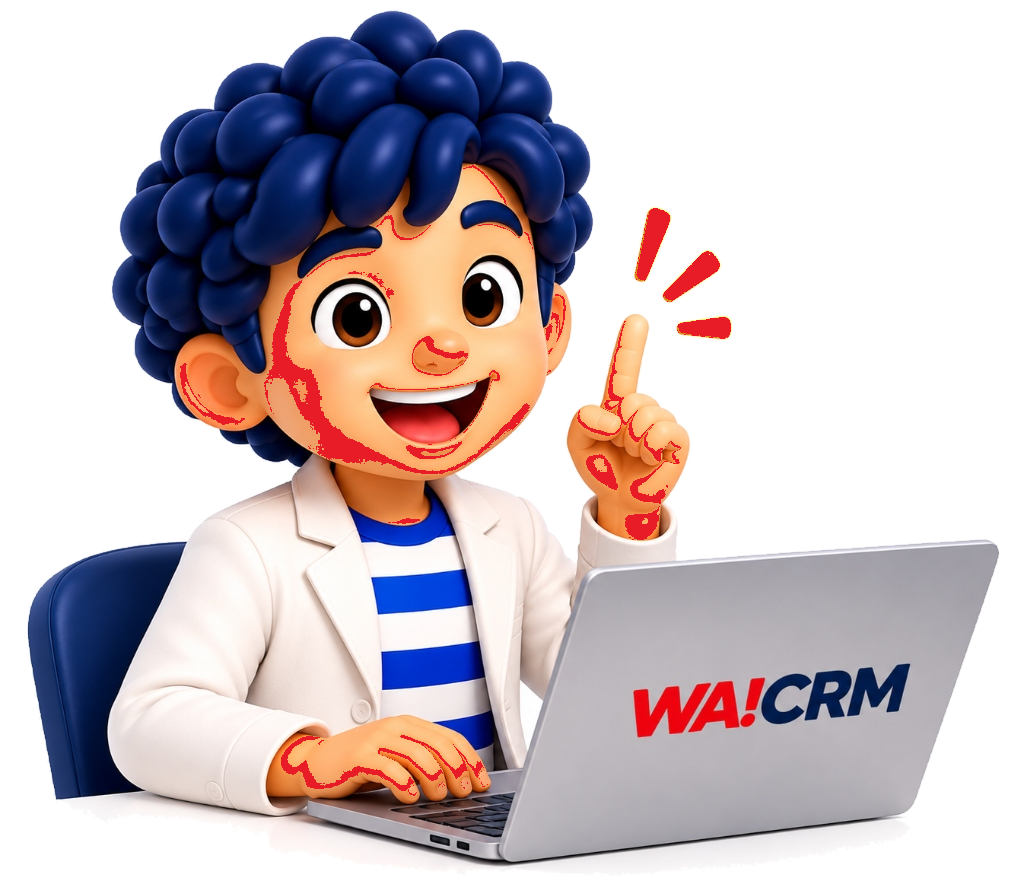
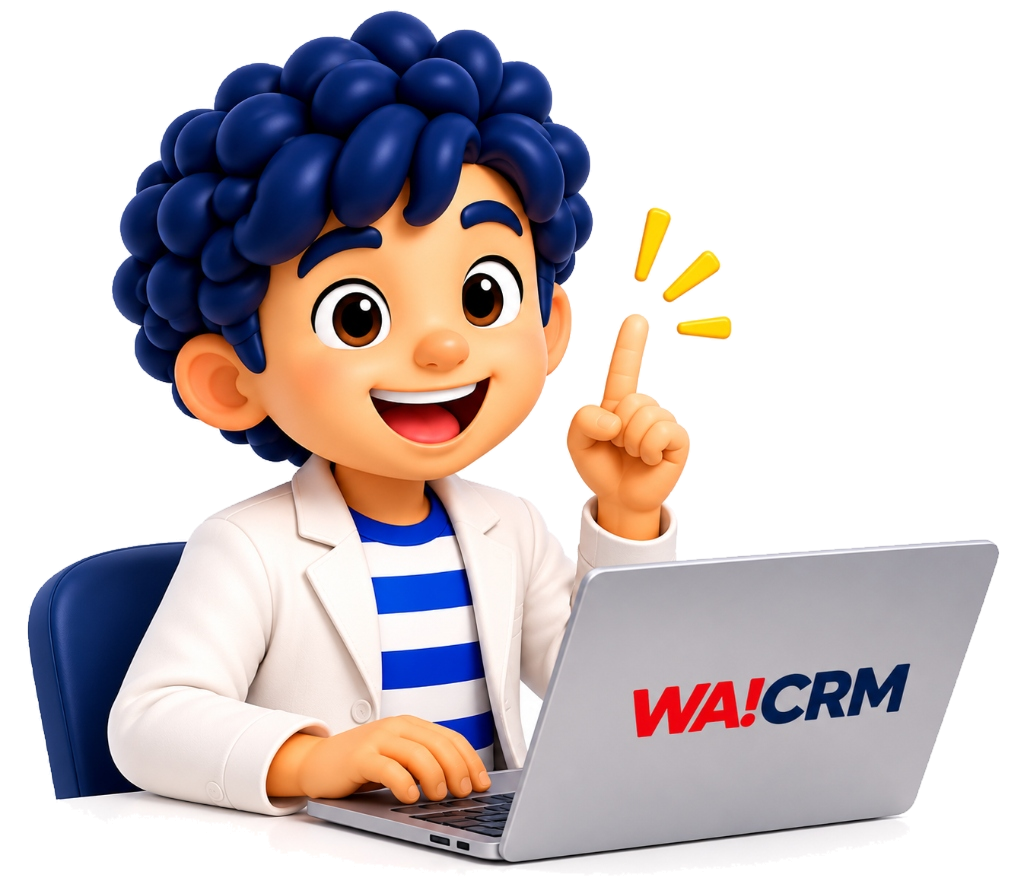
fix(mobile): restore 100% natural skin tones on Pingo face and hands and lower bottom waves

diff --git a/mobile/lib/core/widgets/wave_background_painter.dart b/mobile/lib/core/widgets/wave_background_painter.dart
@@ -123,8 +123,8 @@ class WaveBackgroundPainter extends CustomPainter {
 
       // Deep corporate navy bottom-right wave
       final navyWave = Path()
-        ..moveTo(w * 0.45, h)
-        ..cubicTo(w * 0.65, h * 0.94, w * 0.82, h * 0.92, w, h * 0.85)
+        ..moveTo(w * 0.50, h)
+        ..cubicTo(w * 0.68, h * 0.96, w * 0.84, h * 0.94, w, h * 0.88)
         ..lineTo(w, h)
         ..close();
       final navyPaint = Paint()
@@ -135,14 +135,14 @@ class WaveBackgroundPainter extends CustomPainter {
             Color(0xFF1E3A5F),
             Color(0xFF162A45),
           ],
-        ).createShader(Rect.fromLTWH(w * 0.45, h * 0.85, w * 0.55, h * 0.15));
+        ).createShader(Rect.fromLTWH(w * 0.50, h * 0.88, w * 0.50, h * 0.12));
       canvas.drawPath(navyWave, navyPaint);
 
       // Bold crimson red bottom-left curved wave
       final redWave = Path()
-        ..moveTo(0, h * 0.84)
-        ..cubicTo(w * 0.25, h * 0.80, w * 0.55, h * 0.96, w * 0.82, h * 0.94)
-        ..cubicTo(w * 0.92, h * 0.94, w * 0.98, h * 0.96, w, h)
+        ..moveTo(0, h * 0.88)
+        ..cubicTo(w * 0.22, h * 0.86, w * 0.52, h * 0.98, w * 0.80, h * 0.96)
+        ..cubicTo(w * 0.90, h * 0.96, w * 0.96, h * 0.98, w, h)
         ..lineTo(0, h)
         ..close();
       final redPaint = Paint()
@@ -153,7 +153,7 @@ class WaveBackgroundPainter extends CustomPainter {
             Color(0xFFE5252A),
             Color(0xFFDC2626),
           ],
-        ).createShader(Rect.fromLTWH(0, h * 0.80, w, h * 0.20));
+        ).createShader(Rect.fromLTWH(0, h * 0.86, w, h * 0.14));
       canvas.drawPath(redWave, redPaint);
     }
   }
